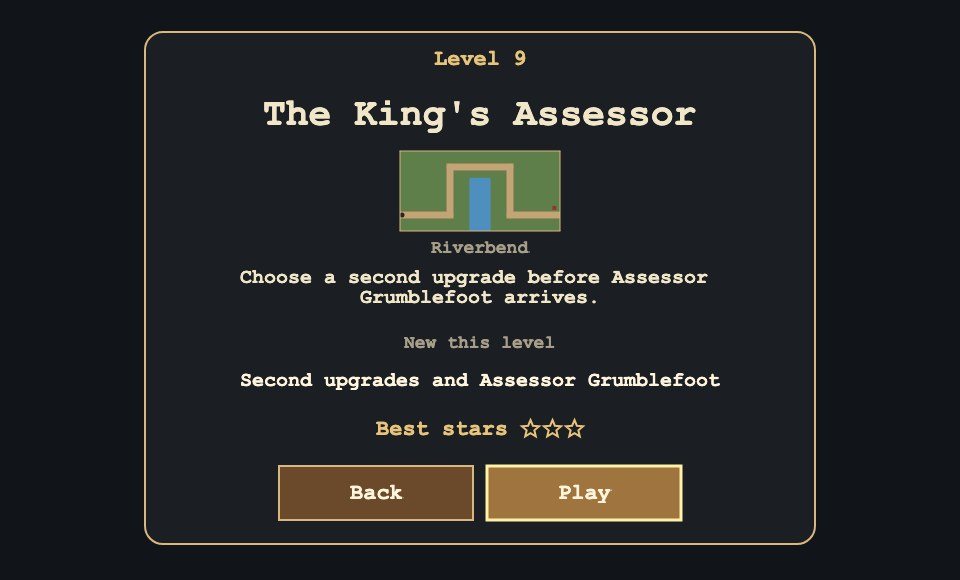
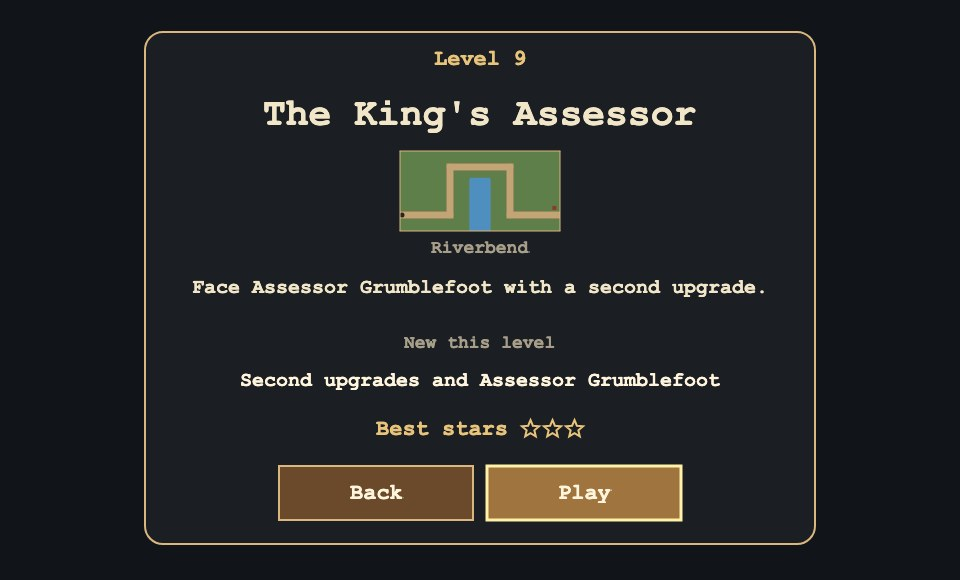
Keep campaign twists clear of the map labels with taller fonts

Changed region(s): [[0.1875, 0.4655, 0.7812, 0.5276]]

diff --git a/e2e/theme.ts b/e2e/theme.ts
@@ -1,5 +1,6 @@
 import { expect, test, type Page } from '@playwright/test';
 import { lastSpawnTick, LEVELS } from '../src/sim';
+import type { TarpitTestApi } from '../src/game/testGlobal';
 import type { Rect } from '../src/game/hud';
 import { LANDSCAPE, PORTRAIT } from '../src/game/layout';
 import { bossBarGeometry } from '../src/game/ui/bossBar';
@@ -50,7 +51,7 @@ export function themeSuite(touch: boolean) {
       await api(page, t => t.setCampaignProgress(Object.fromEntries(Array.from({ length: 8 }, (_, i) => [i + 1, 3]))));
       await page.waitForFunction(() => window.__tarpit!.titleReady());
       await press(page, 'title:stop:9', touch);
-      await page.waitForFunction(() => window.__tarpit!.titleReady() && window.__tarpit!.screen() === 'levelCard');
+      await page.waitForFunction(() => window.__tarpit!.titleReady() && window.__tarpit?.screen?.() === 'levelCard');
       expect(await api(page, t => t.campaignLabels().map(label => label.text).join(' '))).toContain("The King's Assessor");
       await shot('level-9-card');
 
@@ -61,10 +62,10 @@ export function themeSuite(touch: boolean) {
           await waitForTitle(page);
         }
         await press(page, 'title:play', touch);
-        await page.waitForFunction(() => window.__tarpit!.scene() === 'game');
+        await page.waitForFunction(() => window.__tarpit?.scene?.() === 'game');
         const wave = campaign ? 7 : 20;
         await page.evaluate(wave => {
-          const t = window.__tarpit!;
+          const t = window.__tarpit as TarpitTestApi;
           t.state().wave = wave - 1;
           t.step(0);
         }, wave);
@@ -75,7 +76,7 @@ export function themeSuite(touch: boolean) {
         await shot(campaign ? 'level-9-preview' : 'free-play-wave-20');
         const spawn = lastSpawnTick(wave, campaign ? { level: LEVELS[8] } : undefined);
         await page.evaluate(spawn => {
-          const t = window.__tarpit!;
+          const t = window.__tarpit as TarpitTestApi;
           t.state().lives = 1000;
           t.startWave();
           // Advance past the arrival banner so the boss bar alone labels the encounter.

diff --git a/src/game/names.ts b/src/game/names.ts
@@ -374,13 +374,13 @@ export const LEVEL_NAMES: Readonly<Record<number, { name: string; twist: string 
   1: { name: 'First Watch', twist: 'Cover the trail with Musketeers and Longbows.' },
   2: { name: 'Pack Trail', twist: 'Use Cannon fire to thin the crowds.' },
   3: { name: 'The Switchback', twist: 'Slow the Revenue Hounds at the bends.' },
-  4: { name: 'Burn Line', twist: 'Set the tar alight as Redcoat Shieldbearers march through.' },
-  5: { name: 'Wings Over the River', twist: 'Keep the sky covered as Royal Harpies cross the river.' },
+  4: { name: 'Burn Line', twist: 'Ignite the tar under Redcoat Shieldbearers.' },
+  5: { name: 'Wings Over the River', twist: 'Cover the sky as Royal Harpies cross the river.' },
   6: { name: 'Heavy Feet', twist: 'Give the Mortar a clear shot at the Toll Trolls.' },
   7: { name: 'Hold the Bend', twist: 'Raise a Barricade within reach of your towers.' },
   8: { name: 'Stand Fast', twist: 'Meet the crowds with Guards and Fire Arrows.' },
-  9: { name: "The King's Assessor", twist: 'Choose a second upgrade before Assessor Grumblefoot arrives.' },
-  10: { name: 'Last Light', twist: 'Bring every special to the fight with King Grumblemaw.' },
+  9: { name: "The King's Assessor", twist: 'Face Assessor Grumblefoot with a second upgrade.' },
+  10: { name: 'Last Light', twist: 'Bring every special to face King Grumblemaw.' },
 };
 
 export const CAMPAIGN_TEXT = {

diff --git a/e2e/campaign-boss.spec.ts b/e2e/campaign-boss.spec.ts
@@ -8,8 +8,10 @@ import { SPECIAL_DEFS } from '../src/sim/specials';
 import { openCampaign, press, visibleTexts } from './campaign';
 
 for (const motion of ['no-preference', 'reduce'] as const) {
-  test(`Grumblemaw arrival, health bar, two pack calls and fall in live play (${motion})`, async ({ page }) => {
+  test(`Grumblemaw arrival, health bar, two pack calls and fall in live Classic play (${motion})`, async ({ page }) => {
     await page.emulateMedia({ reducedMotion: motion });
+    // Classic enlarges the boss sprite. Painted uses a full-size atlas frame.
+    await page.addInitScript(() => localStorage.setItem('tarpit.look', 'classic'));
     await openCampaign(page, false, true);
     if (motion === 'no-preference') {
       await page.evaluate(() => {
